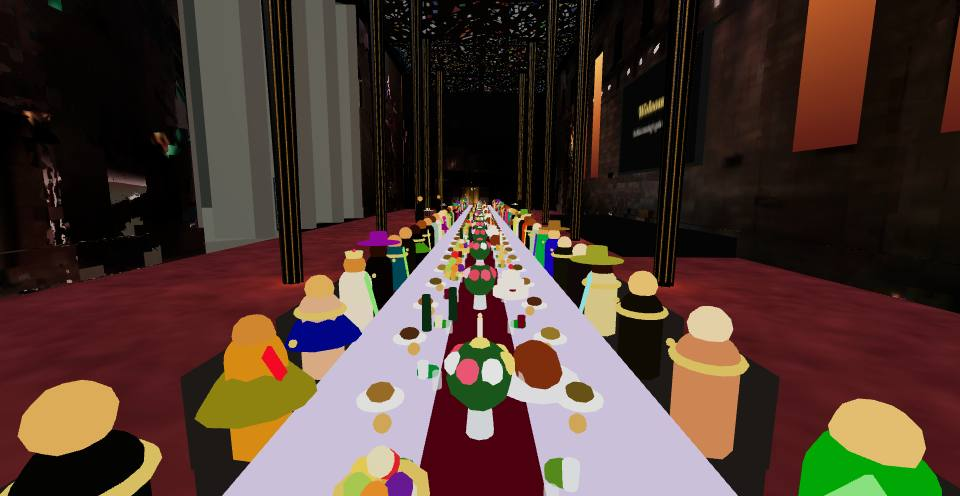
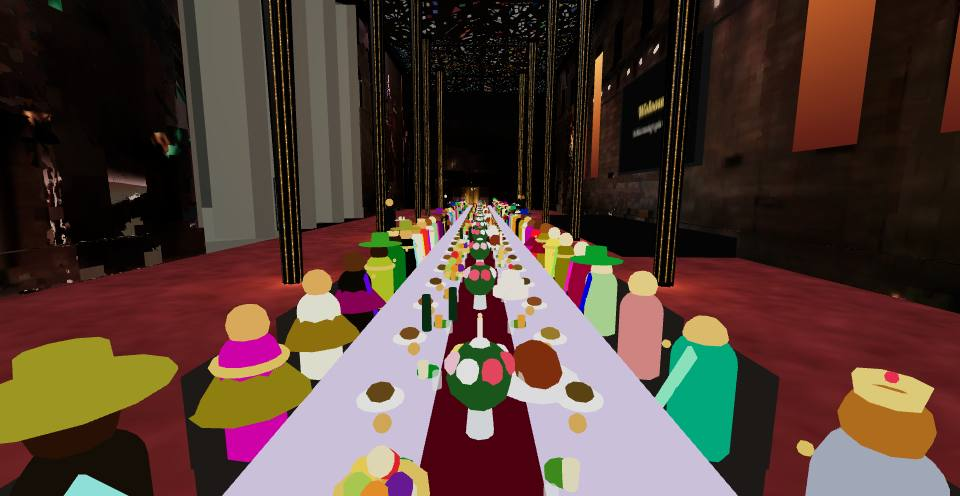
Shot 3 (Lloyd's note, V10): the banquet's columns sparkle, a bright gold glitter over the candlelight (sparkle layers can carry their own density, dens; the banquet's is 12%). Shot 6 (V7) ends the moment its fade is done, 15.4 s, no black before the next shot
Claude-Session: https://claude.ai/code/session_01TvFyJ7jgaVEcvXM9wy2J9o

diff --git a/index.html b/index.html
@@ -1217,7 +1217,7 @@ function animate(time){
    else if(kind==='chaseup'||kind==='chasedown'){const dir=kind==='chaseup'?1:-1; const ph=((P.s[i]*3-dir*T*0.5)%1+1)%1; const k=ph<0.25?1-ph*4:0; r=dimB[0]+(A[0]-dimB[0])*k; g=dimB[1]+(A[1]-dimB[1])*k; b=dimB[2]+(A[2]-dimB[2])*k;}
    else if(kind==='wave'){const k=0.5+0.5*Math.sin(P.s[i]*Math.PI*4-T*2); r=B[0]+(A[0]-B[0])*k; g=B[1]+(A[1]-B[1])*k; b=B[2]+(A[2]-B[2])*k;}
    else if(kind==='rainbow'){hsv(((P.s[i]*360+P.col[i]*30+T*40)%360+360)%360,1,Ly.A.v,tmp); r=lin(tmp[0]);g=lin(tmp[1]);b=lin(tmp[2]);}
-   else if(kind==='sparkle'){const fr=Math.floor(T*6); const q=P.pid[i]; const k=hash(q*7919+fr)<0.02?1:(hash(q*7919+fr-1)<0.02?0.5:0); r=dimB[0]+(A[0]-dimB[0])*k; g=dimB[1]+(A[1]-dimB[1])*k; b=dimB[2]+(A[2]-dimB[2])*k;}
+   else if(kind==='sparkle'){const fr=Math.floor(T*6), dn=Ly.dens||0.02; /* dens: the share of pixels lit at once (the banquet's glitter, Lloyd) */ const q=P.pid[i]; const k=hash(q*7919+fr)<dn?1:(hash(q*7919+fr-1)<dn?0.5:0); r=dimB[0]+(A[0]-dimB[0])*k; g=dimB[1]+(A[1]-dimB[1])*k; b=dimB[2]+(A[2]-dimB[2])*k;}
    else if(kind==='sweep'){const ph=((P.colx[i]*1.2-T*0.3)%1.2+1.2)%1.2; const k=ph<0.25?1-ph*4:0; r=dimB[0]+(A[0]-dimB[0])*k; g=dimB[1]+(A[1]-dimB[1])*k; b=dimB[2]+(A[2]-dimB[2])*k;}
    else if(kind==='alternate'){const on=((P.gap[i]+Math.floor(T*0.8))%2)===0; const C=on?A:B; r=C[0];g=C[1];b=C[2];}
    else {r=A[0];g=A[1];b=A[2];}
@@ -1843,8 +1843,9 @@ const EVENT_LED={
  wedding:{house:0.5,level:0.8,layers:[{name:'Champagne',on:true,anim:'wave',speed:0.14,opacity:1,blend:'add',A:{h:44,s:0.14,v:1},B:{h:48,s:0.4,v:0.75}}]},
  party:{house:0.15,level:1,layers:[{name:'Chase',on:true,anim:'chaseup',speed:0.85,opacity:1,blend:'add',A:{h:315,s:1,v:1},B:{h:230,s:1,v:0.9}},
   {name:'Strobe sparkle',on:true,anim:'sparkle',speed:0.9,opacity:0.7,blend:'add',A:{h:0,s:0,v:1},B:{h:0,s:0,v:0}}]}};
-// the banquet is lit as the dinner is
-EVENT_LED.banquet=EVENT_LED.dinner;
+// the banquet is lit as the dinner is, but its columns SPARKLE (Lloyd, shot 3 V10): the same
+// candlelight under a bright white glitter, fast and dense enough to read from the table
+EVENT_LED.banquet=JSON.parse(JSON.stringify(EVENT_LED.dinner)); EVENT_LED.banquet.layers[1]={name:'Sparkle',on:true,anim:'sparkle',dens:0.12,speed:0.8,opacity:1,blend:'add',A:{h:45,s:0.08,v:1},B:{h:0,s:0,v:0}}; EVENT_LED.banquet.level=0.7;
 function applyEventLED(mode){
  if(!eventSavedLED)eventSavedLED={layers:JSON.parse(JSON.stringify(state.layers)),sel:state.sel,level:state.level,house:lit.house};
  const pr=EVENT_LED[mode]; state.layers=JSON.parse(JSON.stringify(pr.layers)); state.sel=0; state.level=pr.level;
@@ -3707,8 +3708,9 @@ function tourSegments(){ const uM=EVENT.wallLen/2, c=EVENT.cols;
   // so the crowd and more of the columns are in the frame
   // (Lloyd, V5) the shot fades out from 13.9 s with the camera still on the move: the circle
   // eases in and never eases out
-  {mode:'standing',dur:16,cam:k=>{ const q=1-Math.cos(k*Math.PI/2), a=Math.PI*(0.18+0.64*q), S=EP(uM,1.9,1.6), r=cam.aspect>1?9:13, hz=cam.aspect>1?0:0.6;
-    poseAt(EP(uM+r*Math.cos(a),2.0+hz+0.6*q,1.6+r*Math.sin(a)),S); titlesNow(k*16,TX('standing')); veil(Math.max(1-smooth(Math.min(1,k*16/1.5)),smooth(Math.max(0,(k*16-13.9)/1.5)))); }},   /* (Lloyd, V2) fades in from black; (V5) out from 13.9 s */
+  // (Lloyd, V7) the shot ends the moment its fade is done, 15.4 s, no black before the next
+  {mode:'standing',dur:15.4,cam:k=>{ const q=1-Math.cos(k*15.4/16*Math.PI/2), a=Math.PI*(0.18+0.64*q), S=EP(uM,1.9,1.6), r=cam.aspect>1?9:13, hz=cam.aspect>1?0:0.6;
+    poseAt(EP(uM+r*Math.cos(a),2.0+hz+0.6*q,1.6+r*Math.sin(a)),S); titlesNow(k*15.4,TX('standing')); veil(Math.max(1-smooth(Math.min(1,k*15.4/1.5)),smooth(Math.max(0,(k*15.4-13.9)/1.5)))); }},   /* (Lloyd, V2) fades in from black; (V5) out from 13.9 s */
   // (Lloyd, V2) the ceremony plays to the shot's clock: the turn, the veil, the kiss, the dip
   {mode:'wedding',dur:14, cam:k=>{ withTitles(glide(EP(uM,1.7,14.2),EP(uM,1.5,6.4),EP(uM,1.5,3.5),EP(uM,1.25,3.5)),14,TX('wedding-aisle'))(k); if(wedding)wedding.cer=k*14; }},
   // Celebrate starts the walk; the camera keeps 3.5 m behind the couple, at their shoulder height
